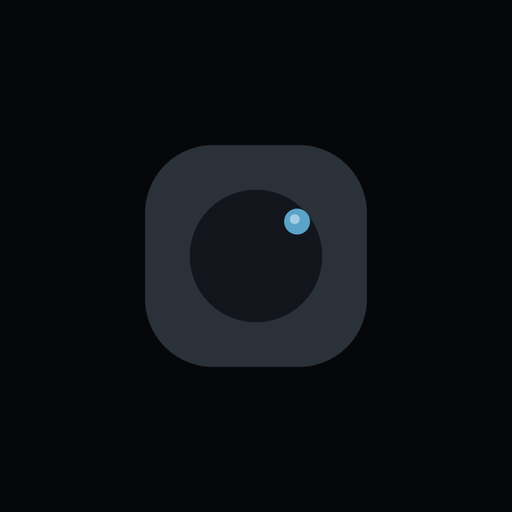
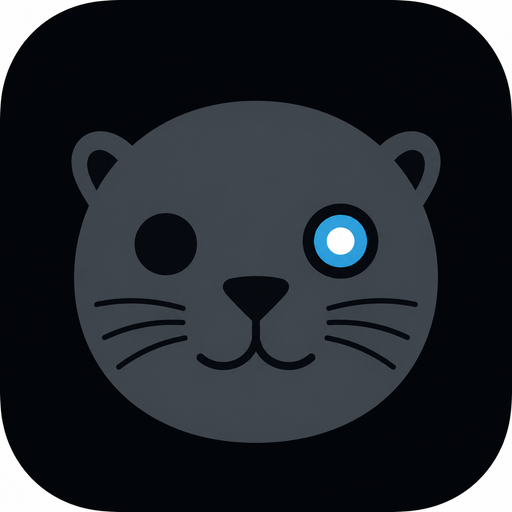
Ship honest PWA install chrome on the public site.
Home footnote names Home Screen or its own window, not “install as a PWA.”
Apple touch is an opaque 180 seal-face. Manifest adds maskable 192/512 and
keeps theme-color at #05070a. No store badges, no install prompt UI.

diff --git a/src/pwa/manifest.test.ts b/src/pwa/manifest.test.ts
@@ -132,13 +132,23 @@ describe('PWA manifest', () => {
     expect(manifest.icons).toEqual([
       expect.objectContaining({ src: '/icon-192.png', sizes: '192x192', purpose: 'any' }),
       expect.objectContaining({ src: '/icon-512.png', sizes: '512x512', purpose: 'any' }),
+      expect.objectContaining({ src: '/icon-192-maskable.png', sizes: '192x192', purpose: 'maskable' }),
       expect.objectContaining({ src: '/icon-512-maskable.png', sizes: '512x512', purpose: 'maskable' }),
     ]);
     expect(manifest.icons?.some((icon) => icon.purpose.split(/\s+/).includes('maskable'))).toBe(true);
+    expect(existsSync(join(root, 'public', 'icon-192-maskable.png'))).toBe(true);
     expect(existsSync(join(root, 'public', 'icon-512-maskable.png'))).toBe(true);
     expect(document.querySelector('meta[name="theme-color"]')?.getAttribute('content'))
-      .toBe(manifest.theme_color);
+      .toBe('#05070a');
+    expect(manifest.theme_color).toBe('#05070a');
+    expect(manifest.theme_color).not.toBe('#000306');
     expect(manifest.background_color).toBe(manifest.theme_color);
+    expect(manifest.start_url).toBe('/app/');
+    expect(manifest.display).toBe('standalone');
+    const apple = document.querySelector('link[rel="apple-touch-icon"]');
+    expect(apple?.getAttribute('href')).toBe('/apple-touch-icon.png');
+    expect(apple?.getAttribute('sizes')).toBe('180x180');
+    expect(readFileSync(entryDocumentPath, 'utf8')).not.toMatch(/beforeinstallprompt/i);
   });
 
   it('references notification icons that exist in public assets', () => {
@@ -250,6 +260,7 @@ describe('PWA manifest', () => {
       'glossary',
       'guidelines',
       'guides',
+      'icon-192-maskable.png',
       'icon-192.png',
       'icon-512-maskable.png',
       'icon-512.png',

diff --git a/src/routes/Download.test.tsx b/src/routes/Download.test.tsx
@@ -63,7 +63,8 @@ describe('downloadMeta', () => {
     expect(MACOS_COMING_SOON.statusLabel).toMatch(/coming soon/i);
     expect(MACOS_COMING_SOON.arches.map((a) => a.arch)).toEqual(['x86_64', 'arm64']);
     expect(MACOS_COMING_SOON.summary).toMatch(/no DMG|not.*yet|coming/i);
-    expect(MACOS_COMING_SOON.honesty).toMatch(/browser|PWA/i);
+    expect(MACOS_COMING_SOON.honesty).toMatch(/browser|Home Screen/i);
+    expect(MACOS_COMING_SOON.honesty).toMatch(/No store/);
     expect(plannedMacosAssetBase('x86_64')).toBe(
       'onyx-0.1.3-macos-x86_64-ReleaseFast-unsigned',
     );
@@ -243,7 +244,9 @@ describe('Download page', () => {
     expect(getByTestId('dl-macos-open-app')).toHaveClass('r-btn', 'ghost');
     expect(getByTestId('dl-macos-open-app')).not.toHaveClass('primary');
     expect(queryByTestId('dl-macos-pwa-hint')).not.toBeInTheDocument();
-    expect(getByTestId('dl-macos-honesty').textContent).toMatch(/PWA|browser/i);
+    expect(getByTestId('dl-macos-honesty').textContent).toMatch(/Home Screen|browser/i);
+    expect(getByTestId('download-page').textContent).toMatch(/No store/);
+    expect(getByTestId('download-page').textContent).not.toMatch(/beforeinstallprompt|iOS push|App Store|Play Store/i);
     expect(getByTestId('download-page').textContent).toMatch(/coming soon/i);
     expect(getByTestId('download-page').textContent).toMatch(/never fabricated/i);
     expect(getByTestId('download-page').textContent).toMatch(/does not claim third-party virus-free/i);

diff --git a/src/ui/public/brandAssets.test.ts b/src/ui/public/brandAssets.test.ts
@@ -26,6 +26,7 @@ describe('locked public identity assets', () => {
       'public/og.png',
       'public/icon-192.png',
       'public/icon-512.png',
+      'public/icon-192-maskable.png',
       'public/icon-512-maskable.png',
       'public/apple-touch-icon.png',
       'public/favicon-32.png',
@@ -40,8 +41,12 @@ describe('locked public identity assets', () => {
     expect(pngSize('public/og.png')).toEqual({ width: 1200, height: 630 });
     expect(pngSize('public/brand/og.png')).toEqual({ width: 1200, height: 630 });
     expect(pngSize('public/icon-512.png')).toEqual({ width: 512, height: 512 });
+    expect(pngSize('public/icon-192-maskable.png')).toEqual({ width: 192, height: 192 });
     expect(pngSize('public/icon-512-maskable.png')).toEqual({ width: 512, height: 512 });
-    expect(pngSize('public/apple-touch-icon.png')).toEqual({ width: 180, height: 180 });
+    const apple = readFileSync(join(root, 'public/apple-touch-icon.png'));
+    expect({ width: apple.readUInt32BE(16), height: apple.readUInt32BE(20) }).toEqual({ width: 180, height: 180 });
+    expect(apple[25], 'apple-touch must be opaque RGB, not alpha').toBe(2);
+    expect(apple.equals(readFileSync(join(root, 'public/favicon-32.png')))).toBe(false);
 
     const home = readFileSync(join(root, 'src', 'routes', 'Landing.tsx'), 'utf8');
     const entry = readFileSync(join(root, 'index.html'), 'utf8');

diff --git a/src/routes/Download.tsx b/src/routes/Download.tsx
@@ -340,7 +340,8 @@ function MacosComingSoonCard(): JSX.Element {
       <p class="dl-note" data-testid="dl-macos-honesty">
         {mac.honesty}
         {' '}
-        Supporting browsers can install Onyx as a PWA from the app shell — same rooms, messages, and calls without a native package.
+        Supporting browsers can put Onyx on the Home Screen or in its own window. No store.
+        Same rooms, messages, and calls without a native package.
       </p>
     </article>
   );
@@ -471,7 +472,8 @@ export default function Download(): JSX.Element {
                 {' '}
                 <a href="/app/">open the browser app</a>
                 {' '}
-                or install the PWA — including on Mac today.
+                — including on Mac today. Supporting browsers can put Onyx on the
+                Home Screen or in its own window. No store.
               </li>
             </ul>
           </div>

diff --git a/src/routes/Landing.test.tsx b/src/routes/Landing.test.tsx
@@ -33,6 +33,11 @@ describe('Landing', () => {
     expect(container.querySelector('a.home-secondary-link')).toHaveAttribute('href', '/download/');
     expect(container.querySelector('a.home-secondary-link')).toHaveTextContent('Download');
     expect(container.textContent).toMatch(/Invite someone\. Join a room\. Talk\./);
+    expect(container.querySelector('.home-desktop-note')?.textContent).toMatch(
+      /Supporting browsers can put Onyx on the Home Screen or in its own window\. No store\./,
+    );
+    expect(container.textContent).not.toMatch(/install Onyx as a PWA/i);
+    expect(container.textContent).not.toMatch(/app store|play store|beforeinstallprompt|iOS push/i);
   });
 
   it('derives public destination links from manifest hrefs', () => {

diff --git a/src/routes/downloadMeta.ts b/src/routes/downloadMeta.ts
@@ -207,7 +207,7 @@ export const MACOS_COMING_SOON: MacosComingSoonCard = {
   runtime: 'system WKWebView',
   plannedPackage: 'unsigned, unnotarized .app inside a DMG (separate arch lanes)',
   honesty:
-    'Until macOS packages ship, use the browser or install the PWA — the full client, without waiting on a native shell.',
+    'Until macOS packages ship, use the browser. Supporting browsers can put Onyx on the Home Screen or in its own window. No store.',
 } as const;
 
 /** BSD-only subset of DOWNLOAD_CARDS (compat). */

diff --git a/src/routes/Landing.tsx b/src/routes/Landing.tsx
@@ -56,7 +56,7 @@ export default function Landing() {
               <a class="home-secondary-link" href={publicRouteById('download').href}>Download</a>
             </div>
             <p class="home-desktop-note">
-              Open it in the browser — no install, no ads. Invite someone from a room, or use Download as a quieter path.
+              Supporting browsers can put Onyx on the Home Screen or in its own window. No store.
             </p>
             <img
               class="home-mascot"

diff --git a/public/sw.js b/public/sw.js
@@ -132,7 +132,9 @@ function isCacheableStaticPath(pathname) {
     || pathname === '/favicon-32.png'
     || pathname === '/apple-touch-icon.png'
     || pathname === '/icon-192.png'
+    || pathname === '/icon-192-maskable.png'
     || pathname === '/icon-512.png'
+    || pathname === '/icon-512-maskable.png'
     || pathname === '/og.png'
     || pathname.startsWith('/brand/')
     || /^\/screenshots\/[^/]+\.png$/.test(pathname);

diff --git a/src/pwa/routeEntrypoints.test.ts b/src/pwa/routeEntrypoints.test.ts
@@ -249,6 +249,8 @@ describe('SPA route entrypoint materializer', () => {
         .toBe('/favicon.ico');
       expect(document.querySelector('link[rel="apple-touch-icon"]')?.getAttribute('href'), route)
         .toBe('/apple-touch-icon.png');
+      expect(document.querySelector('link[rel="apple-touch-icon"]')?.getAttribute('sizes'), route)
+        .toBe('180x180');
     }
   });
 

diff --git a/docs/PUBLIC_COMPANY_SITE.md b/docs/PUBLIC_COMPANY_SITE.md
@@ -169,8 +169,11 @@ Procurement materials and legal pages remain **gated**. Not a Home section inven
 | Desktop host scaffold / null compile exists | **Internal / roadmap only** for multi-platform ship claims |
 
 Home may say: **Browser now across desktop and mobile**, with a neutral link to
-`/download/`. Exact native platform support stays on Download. Prefer silence
-over aspirational signed multi-platform CTAs.
+`/download/`. The Home footnote may say supporting browsers can put Onyx on the
+Home Screen or in its own window — no store, no `beforeinstallprompt` UI on
+marketing pages, no iOS-push claim from a Safari tab. Exact native platform
+support stays on Download, below the fold. Prefer silence over aspirational
+signed multi-platform CTAs.
 
 ---
 
